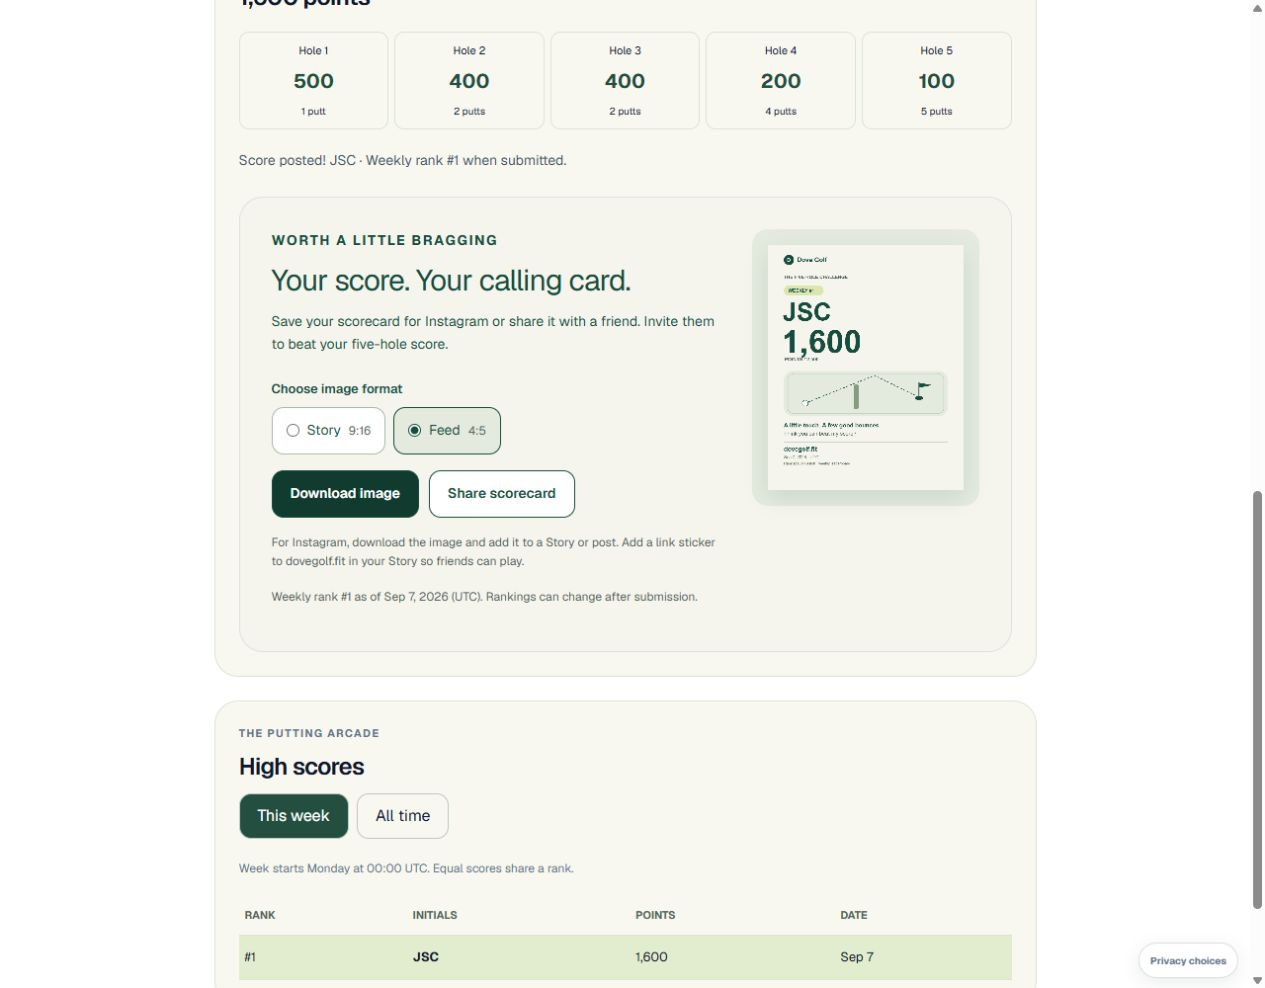
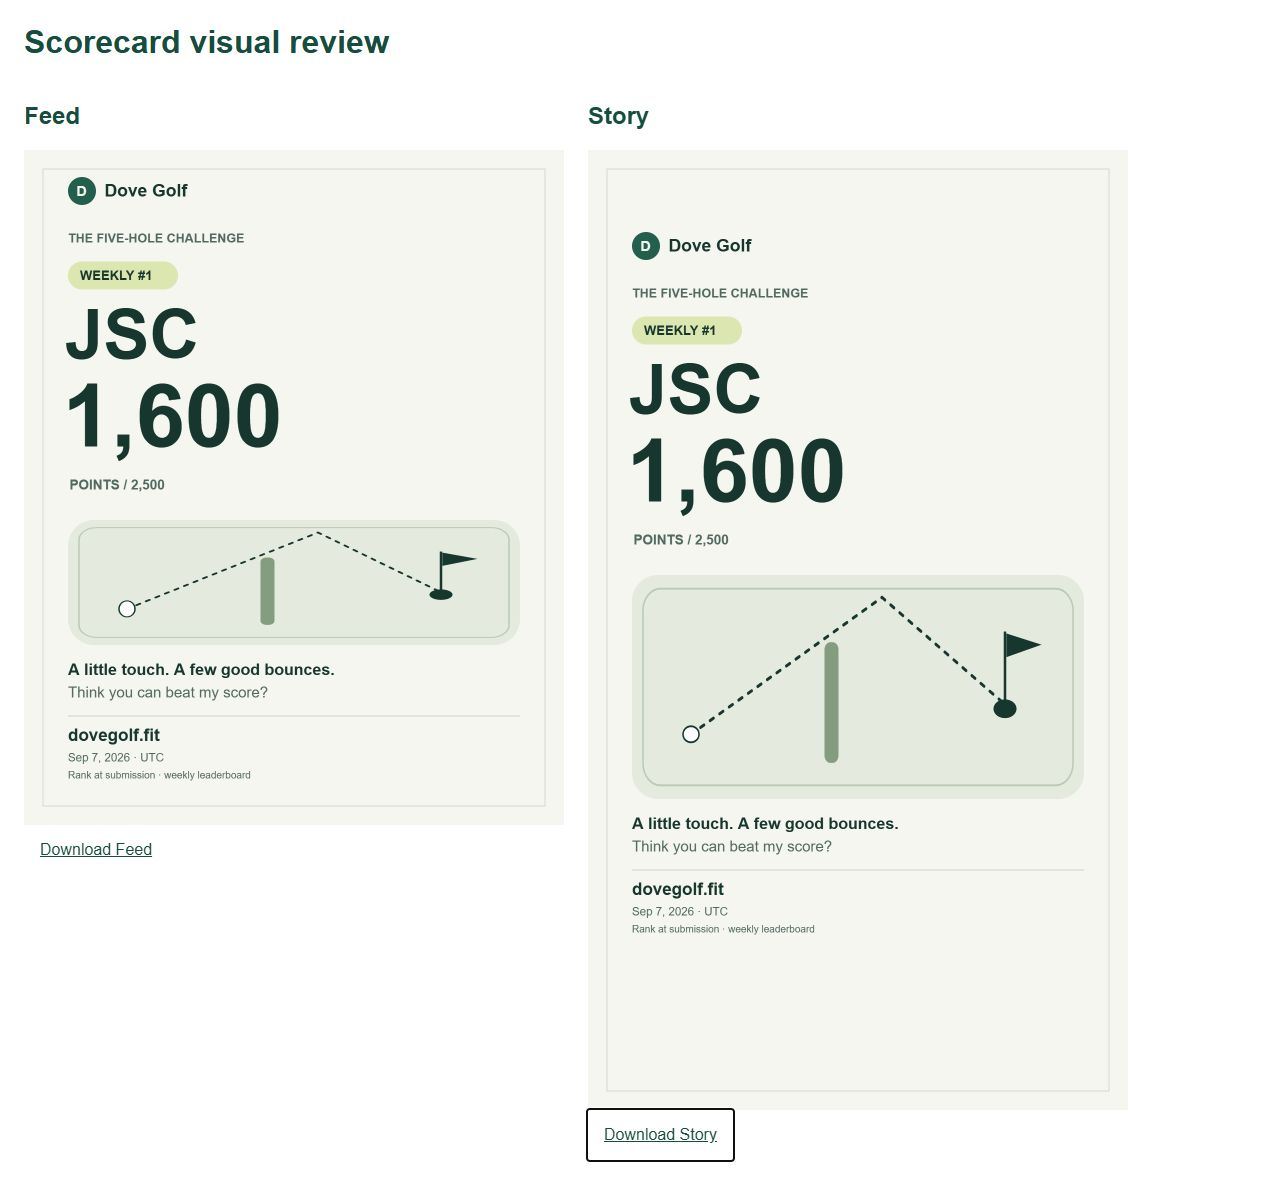
Give scorecard labels clear spacing and align brand palette

diff --git a/src/components/putting/ScoreShare.module.css b/src/components/putting/ScoreShare.module.css
@@ -1,4 +1,4 @@
-.share { display: grid; gap: 24px; padding: clamp(20px, 4vw, 32px); border: 1px solid #dbe3df; border-radius: 24px; background: #f6f5ed; color: #174d3e; }
+.share { display: grid; gap: 24px; padding: clamp(20px, 4vw, 32px); border: 1px solid #dbe3df; border-radius: 24px; background: #f5f6f0; color: #17362d; }
 .copy { min-width: 0; }
 .eyebrow { margin: 0 0 12px; font-size: 11px; font-weight: 700; letter-spacing: .12em; text-transform: uppercase; }
 .copy h3 { margin: 0 0 12px; font-size: clamp(23px, 4vw, 30px); line-height: 1.15; letter-spacing: -.03em; }
@@ -6,21 +6,21 @@
 .formats { display: flex; flex-wrap: wrap; gap: 8px; border: 0; padding: 0; margin: 24px 0 16px; }
 .formats legend { padding: 0; margin-bottom: 8px; font-size: 13px; font-weight: 600; }
 .formats label { display: flex; align-items: center; gap: 8px; min-height: 48px; padding: 10px 14px; border: 1px solid #a8baac; border-radius: 12px; background: white; font-size: 14px; cursor: pointer; }
-.formats label:has(input:checked) { background: #e4eade; border-color: #174d3e; }
-.formats input { accent-color: #174d3e; }
-.formats span { color: #52655b; font-size: 12px; }
+.formats label:has(input:checked) { background: #e4eade; border-color: #17362d; }
+.formats input { accent-color: #17362d; }
+.formats span { color: #526960; font-size: 12px; }
 .actions { display: flex; flex-wrap: wrap; gap: 10px; }
-.primary, .secondary { display: inline-flex; align-items: center; justify-content: center; min-height: 48px; padding: 12px 18px; border: 1px solid #174d3e; border-radius: 12px; font-size: 14px; font-weight: 600; text-decoration: none; cursor: pointer; }
-.primary { background: #174d3e; color: white; }
+.primary, .secondary { display: inline-flex; align-items: center; justify-content: center; min-height: 48px; padding: 12px 18px; border: 1px solid #17362d; border-radius: 12px; font-size: 14px; font-weight: 600; text-decoration: none; cursor: pointer; }
+.primary { background: #17362d; color: white; }
 .primary:hover { background: #103b2e; }
-.secondary { background: white; color: #174d3e; }
+.secondary { background: white; color: #17362d; }
 .secondary:disabled { opacity: .6; cursor: wait; }
-.copy .help { font-size: 12px; color: #52655b; margin: 16px 0 0; }
+.copy .help { font-size: 12px; color: #526960; margin: 16px 0 0; }
 .copy .status { font-size: 13px; margin: 12px 0 0; }
 .preparing { font-size: 14px; min-height: 48px; display: flex; align-items: center; }
 .preview { display: flex; align-items: flex-start; justify-content: center; padding: 16px; border-radius: 16px; background: #e4eade; }
 .card { display: block; width: 100%; max-width: 260px; height: auto; box-shadow: 0 8px 24px rgb(23 77 62 / .12); }
-.share :is(a, button, input):focus-visible { outline: 3px solid #174d3e; outline-offset: 4px; }
+.share :is(a, button, input):focus-visible { outline: 3px solid #17362d; outline-offset: 4px; }
 .share { min-width: 0; grid-template-columns: minmax(0, 1fr); }
 .preview { min-width: 0; }
 @media (max-width: 400px) { .share { padding: 16px; } .preview { padding: 8px; } }

diff --git a/src/components/putting/scoreCard.ts b/src/components/putting/scoreCard.ts
@@ -23,9 +23,9 @@ export function drawScoreCard(canvas: HTMLCanvasElement, entry: ShareEntry, form
   canvas.height = height;
   const ctx = canvas.getContext("2d");
   if (!ctx) throw new Error("Image creation is unavailable in this browser.");
-  const green = "#174d3e";
-  const muted = "#52655b";
-  const cream = "#f6f5ed";
+  const green = "#17362d";
+  const muted = "#526960";
+  const cream = "#f5f6f0";
   const story = format === "story";
   const top = story ? 190 : 80;
   ctx.fillStyle = cream;
@@ -47,7 +47,7 @@ export function drawScoreCard(canvas: HTMLCanvasElement, entry: ShareEntry, form
   }
 
   ctx.beginPath(); ctx.arc(116, top + 2, 28, 0, Math.PI * 2);
-  ctx.fillStyle = green; ctx.fill();
+  ctx.fillStyle = "#245f4d"; ctx.fill();
   text("D", 105, top + 12, 28, 600, cream);
   text("Dove Golf", 161, top + 13, 35, 600);
   text("THE FIVE-HOLE CHALLENGE", 88, top + 105, 25, 600, muted);
@@ -59,10 +59,11 @@ export function drawScoreCard(canvas: HTMLCanvasElement, entry: ShareEntry, form
 
   text(entry.initials.toUpperCase(), 82, top + 337, 138, 700);
   text(entry.score.toLocaleString("en-US"), 77, top + 513, 176, 700);
-  text("POINTS / 2,500", 91, top + 559, 27, 600, muted);
+  // Leave room for the large score's comma descender before the smaller label.
+  text("POINTS / 2,500", 91, top + 599, 27, 600, muted);
 
   // A miniature bank-shot green echoes the site's dotted ball-flight motif.
-  const greenTop = top + 614;
+  const greenTop = top + 660;
   const greenHeight = story ? 448 : 250;
   rounded(88, greenTop, 904, greenHeight, 52, "#e4eade");
   ctx.save();
@@ -84,7 +85,7 @@ export function drawScoreCard(canvas: HTMLCanvasElement, entry: ShareEntry, form
   ctx.lineWidth = 5;
   ctx.beginPath(); ctx.moveTo(746, 209); ctx.lineTo(746, 93); ctx.stroke();
   ctx.beginPath(); ctx.moveTo(749, 94); ctx.lineTo(819, 112); ctx.lineTo(749, 132);
-  ctx.fillStyle = "#174d3e"; ctx.fill();
+  ctx.fillStyle = green; ctx.fill();
   ctx.beginPath(); ctx.ellipse(118, 256, 16, 16 * 360 / greenHeight, 0, 0, Math.PI * 2);
   ctx.fillStyle = "#ffffff"; ctx.fill();
   ctx.strokeStyle = green; ctx.lineWidth = 3; ctx.stroke();

diff --git a/docs/putting-prototype.md b/docs/putting-prototype.md
@@ -45,3 +45,5 @@ Local full lint, the full npm test suite (including 14 physics and eight backend
 Browser checks at 1280px, 390px and 320px covered slider/keyboard shots, all five successful holes (1,600 points), all five exhausted holes (zero points), bank cues, result/next-hole focus, replay reset, canonical metadata, leaderboard outage and recovery, empty and populated boards, weekly/all-time selection, submission success and highlighted entry, and both PNG downloads. A discovered 320px scorecard overflow was fixed and rechecked. Submission used the real server replay with a local mock of the Supabase RPC transport: it does not verify persisted database behavior. Screenshots and illustrative locally generated scorecards are in `artifacts/putting-arcade/`. Current pointer dragging, physical touch devices, screen readers and native Instagram handoff remain unverified. CI and Vercel preview checks are required before production merge.
 
 Develop and review on a feature branch/preview. Publishing requires explicit production approval. The application can be rolled back by reverting the feature release; the leaderboard schema is additive and should be retained during rollback to preserve scores. Database migration execution and persisted success/concurrency checks require a test database; follow the linked leaderboard runbook before enabling production posting.
+
+Final visual review: increased separation below the large numeric score to clear comma descenders in both PNG formats, and matched the established social-preview cream/green palette. Re-rendered and inspected the actual drawing module at full export resolution and 320px/1280px browser widths. Updated `scorecard-feed.png`, `scorecard-story.png`, and the standalone renderer comparison `desktop-scorecard.png`; the mobile component screenshot documents the corrected page width.
